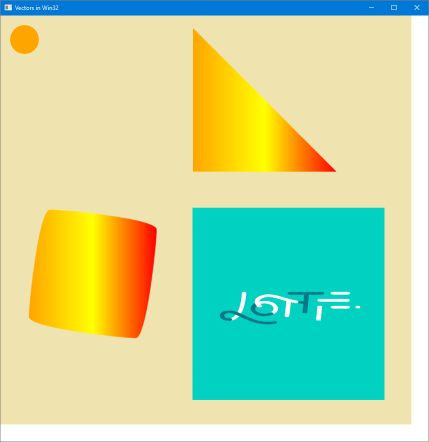
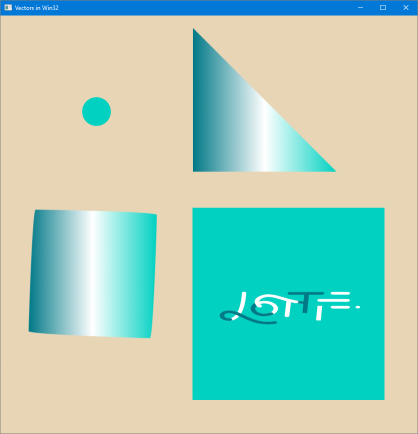
Fix colors and window size

Changed region(s): [[0.0, 0.0, 1.0, 1.0], [0.0622, 0.4493, 0.3732, 0.7788], [0.1866, 0.2097, 0.2799, 0.2995]]

diff --git a/cpp/HelloVectors/HelloVectors_win32.cpp b/cpp/HelloVectors/HelloVectors_win32.cpp
@@ -41,7 +41,7 @@ void Scenario1SimpleShape(const Compositor & compositor, const ContainerVisual &
 
 	// Create a new ShapeVisual that will contain our drawings.
 	ShapeVisual shape = compositor.CreateShapeVisual();
-	shape.Size({ 100.0f,100.0f });
+	shape.Size({ 400.0f,400.0f });
 
 	// Create a circle geometry and set its radius.
 	auto circleGeometry = compositor.CreateEllipseGeometry();
@@ -49,8 +49,8 @@ void Scenario1SimpleShape(const Compositor & compositor, const ContainerVisual &
 
 	// Create a shape object from the geometry and give it a color and offset.
 	auto circleShape = compositor.CreateSpriteShape(circleGeometry);
-	circleShape.FillBrush(compositor.CreateColorBrush(Windows::UI::Colors::Orange()));
-	circleShape.Offset({ 50.0f, 50.0f });
+	circleShape.FillBrush(compositor.CreateColorBrush(ColorHelper::FromArgb(255, 0, 209, 193)));
+	circleShape.Offset({ 200.0f, 200.0f });
 
 	// Add the circle to our shape visual.
 	shape.Shapes().Append(circleShape);
@@ -69,9 +69,9 @@ void Scenario1SimpleShape(const Compositor & compositor, const ContainerVisual &
 Windows::UI::Composition::CompositionLinearGradientBrush CreateGradientBrush(const Compositor & compositor)
 {
 	auto gradBrush = compositor.CreateLinearGradientBrush();
-	gradBrush.ColorStops().InsertAt(0, compositor.CreateColorGradientStop(0.0f, Windows::UI::Colors::Orange()));
-	gradBrush.ColorStops().InsertAt(1, compositor.CreateColorGradientStop(0.5f, Windows::UI::Colors::Yellow()));
-	gradBrush.ColorStops().InsertAt(2, compositor.CreateColorGradientStop(1.0f, Windows::UI::Colors::Red()));
+	gradBrush.ColorStops().InsertAt(0, compositor.CreateColorGradientStop(0.0f, ColorHelper::FromArgb(255, 0, 120, 134)));
+	gradBrush.ColorStops().InsertAt(1, compositor.CreateColorGradientStop(0.5f, ColorHelper::FromArgb(255, 255, 255, 255)));
+	gradBrush.ColorStops().InsertAt(2, compositor.CreateColorGradientStop(1.0f, ColorHelper::FromArgb(255, 0, 209, 193)));
 	return gradBrush;
 }
 

diff --git a/cpp/HelloVectors/desktopcompositionwindow.h b/cpp/HelloVectors/desktopcompositionwindow.h
@@ -173,7 +173,7 @@ struct CompositionWindow : DesktopWindow<CompositionWindow>
 		WINRT_VERIFY(CreateWindow(wc.lpszClassName,
 			L"Vectors in Win32",
 			WS_OVERLAPPEDWINDOW | WS_VISIBLE,
-			CW_USEDEFAULT, CW_USEDEFAULT, CW_USEDEFAULT, CW_USEDEFAULT,
+			CW_USEDEFAULT, CW_USEDEFAULT, 850, 874,
 			nullptr, nullptr, wc.hInstance, this));
 
 		WINRT_ASSERT(m_window);
@@ -218,8 +218,8 @@ struct CompositionWindow : DesktopWindow<CompositionWindow>
 	{
 		m_target = CreateDesktopWindowTarget(compositor, m_window);
 		m_root = compositor.CreateSpriteVisual();
-		m_root.RelativeSizeAdjustment({ 1.0f, 1.0f });
-		m_root.Brush(compositor.CreateColorBrush({ 0xFF, 0xEF, 0xE4 , 0xB0 }));
+		m_root.RelativeSizeAdjustment({ 1.05f, 1.05f });
+		m_root.Brush(compositor.CreateColorBrush({ 0xFF, 0xE7, 0xD5 , 0xB5 }));
 		m_target.Root(m_root);
 	}
 
